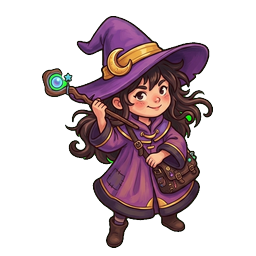
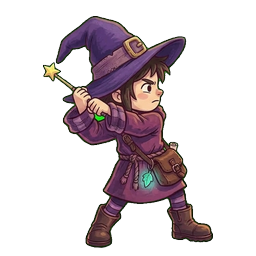
art: yeni sanat yonu ile yenilenen gorseller

diff --git a/sw.js b/sw.js
@@ -1,5 +1,5 @@
 // Çevrimdışı çalışma: kod ve sayfa önce ağdan (güncel sürüm), görseller önce önbellekten.
-const CACHE = 'hexling-v151';
+const CACHE = 'hexling-v152';
 const CORE = ['index.html', 'manifest.webmanifest', 'dist/main.js', 'dist/minis.js', 'dist/game.js', 'dist/data.js', 'dist/audio.js', 'dist/settings.js', 'dist/i18n.js', 'dist/scenery.js', 'dist/version.js', 'dist/billing.js', 'dist/ads.js', 'dist/fight.js', 'dist/hof.js', 'dist/house.js', 'dist/meta.js', 'dist/quests.js', 'dist/story.js', 'dist/tiger.js', 'dist/notify.js', 'dist/mine.js', 'dist/mine3d.js', 'vendor/three.min.js', 'assets/manifest.json', 'assets/title_bg.jpg', 'assets/arena_bg.jpg', 'icons/icon-192.png'];
 
 self.addEventListener('install', (e) => {
